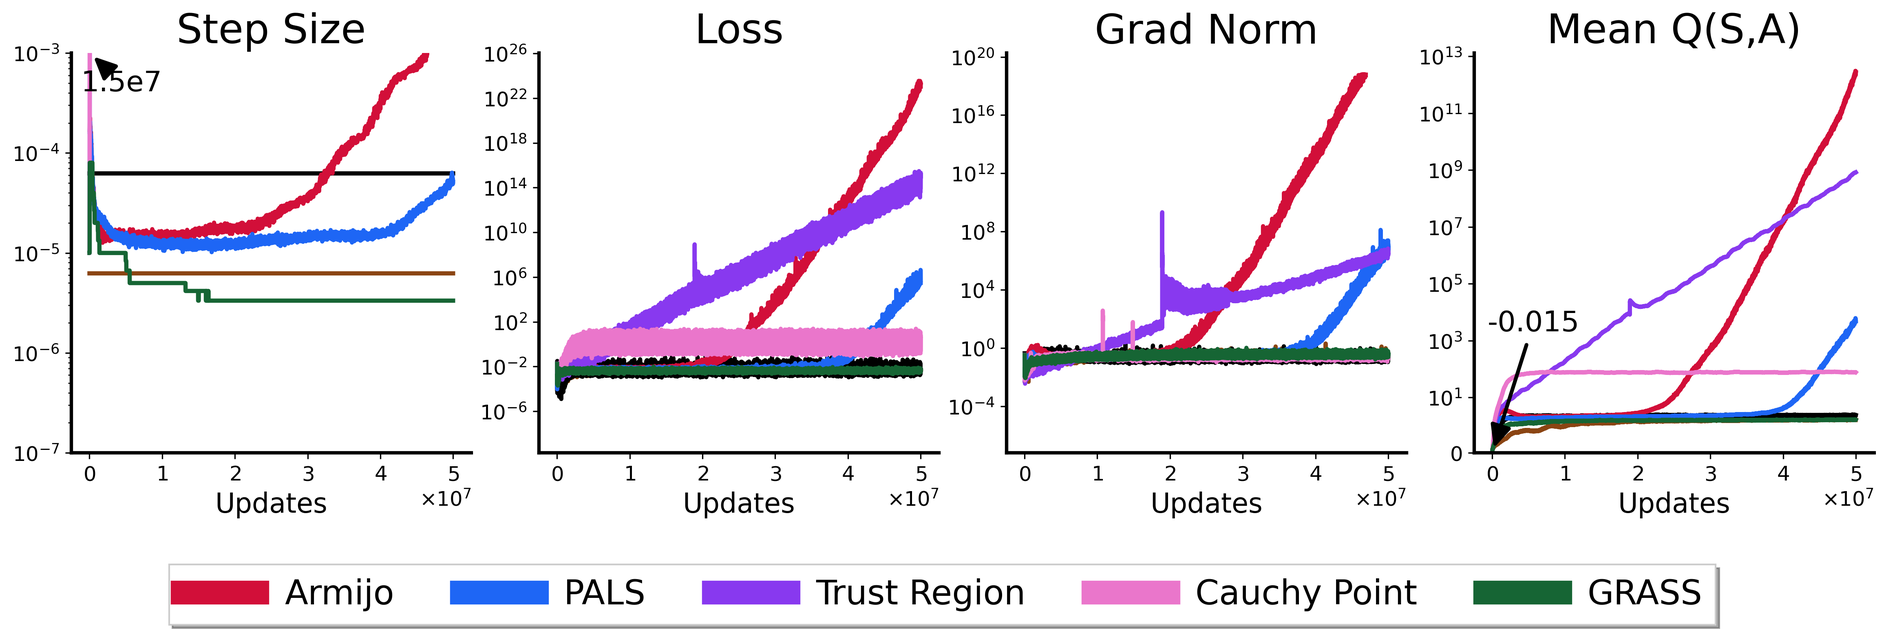
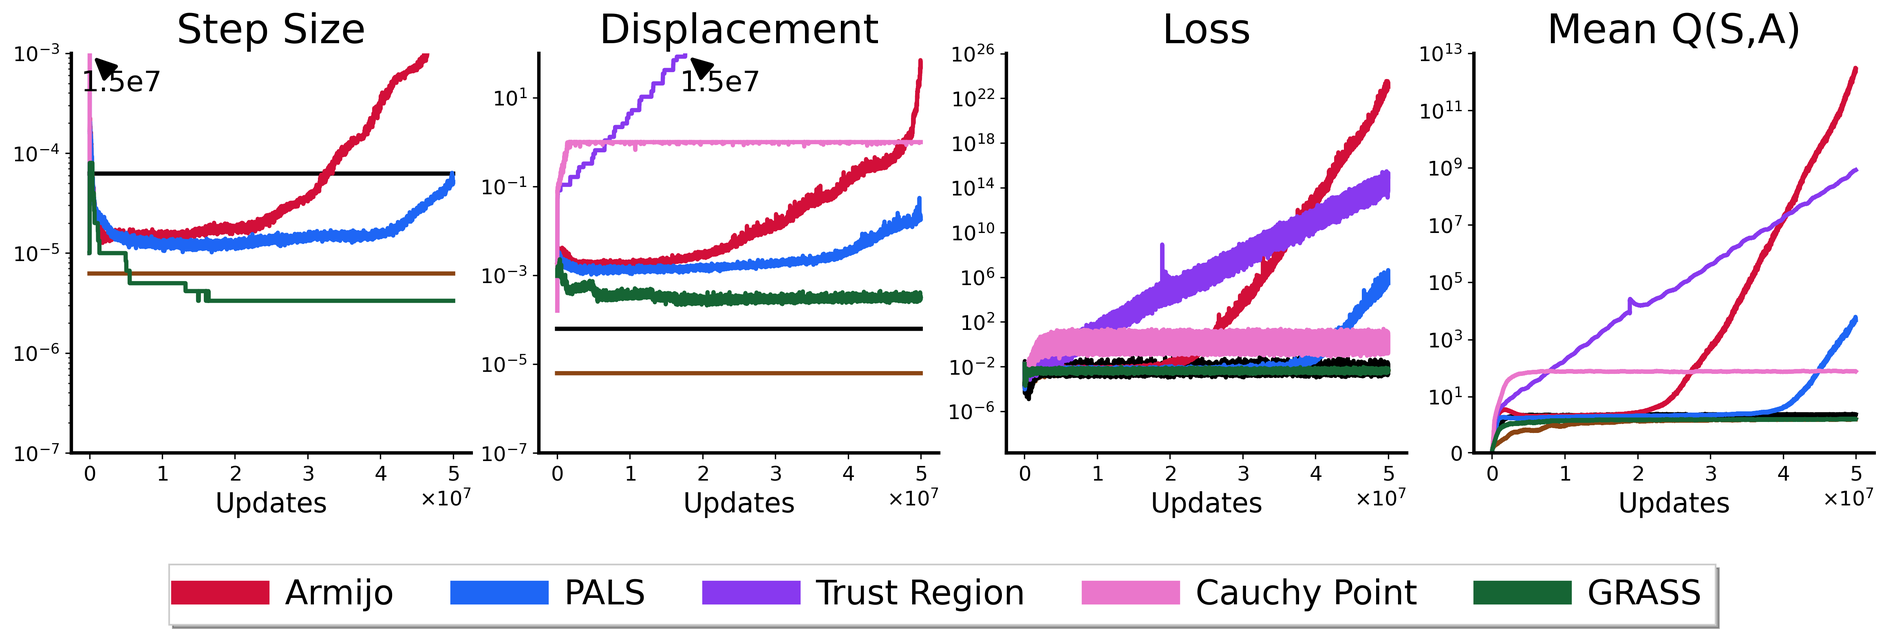
progress

diff --git a/thesis_template.tex b/thesis_template.tex
@@ -28,6 +28,8 @@
 \usepackage{wrapfig2}  %% <- for wrapfigure; wrapfig2 (not wrapfig) defers the
                        %%    figure to the next page when too little room is left
 \usepackage{float}     %% <- for [H] float placement (used by appendix figures)
+\usepackage{placeins}  %% <- for \FloatBarrier, used to keep algorithms and tables
+                       %%    inside the section that introduces them
 \usepackage{nicefrac}
 \usepackage{xcolor}
 \usepackage{amsmath}
@@ -188,12 +190,11 @@ The performance of deep reinforcement learning algorithms is notoriously sensiti
 \setcounter{page}{2}
 \renewcommand{\thepage}{\roman{page}} % Roman numerals for page counter
 
-\onehalfspacing
 \chapter*{Preface} \addcontentsline{toc}{chapter}{Preface}
 This thesis builds upon unpublished work done in collaboration with Samuel Neumann, Chen Fan, Martha White and Adam White. Generative AI tools such as Anthropic's Claude model were used to produce plots and edit text throughout this work. 
 
 \chapter*{Acknowledgements} \addcontentsline{toc}{chapter}{Acknowledgements}
-I am immensely grateful to my advisor, Professor Adam White, for his steadfast encouragement, insightful counsel, and grounding presence throughout the research process over the past two years. My gratitude goes to my primary collaborator, Samuel Neumann, for his extensive contributions to this project, and for being an inspiring and generous mentor as I navigated the trails of graduate research. Special thanks are also due to Professor Martha White and Dr. Chen Fan for lending their astute perspectives at many key stages of this work. I also wish to thank my labmates for their friendship and countless thought-provoking conversations. Lastly, thank you to Mom, Dad, and Julian for being there for me every step of the way.
+I am immensely grateful to my advisor, Professor Adam White, for his steadfast encouragement, insightful counsel, and grounding presence throughout the research process over the past two years. My gratitude also goes to my primary collaborator, Samuel Neumann, for his extensive contributions to this project, and for being an inspiring and generous mentor throughout trails of graduate research. Special thanks are also due to Professor Martha White and Dr. Chen Fan for lending their astute perspectives at many key stages of this work. I also wish to thank my labmates for their friendship and countless thought-provoking conversations. Lastly, thank you to Mom, Dad, and Julian for being there for me every step of the way.
 
 \tableofcontents
 \listoftables
@@ -316,7 +317,7 @@ In the tabular setting, if $\dynamics$ and $\rewardFunction$ are known, this obj
 \subsection{Monte Carlo Methods}
 The simplest prediction algorithm is Monte Carlo policy evaluation, which uses the full return $G_t$ observed for each state $S_t$ in a trajectory as an update target. By definition, $G_t$ is an unbiased estimate of $\vfn(S_t)$ or $\qfn(S_t, A_t)$. Algorithm~\ref{alg:mc} gives the procedure for the state-value case. One limitation of Monte Carlo evaluation is that it requires a full trajectory of experience to construct the target, delaying all updates to value estimates until the end of an episode. Another key disadvantage is that the variance of the update target is high, which can slow convergence.
 
-\begin{algorithm}[t]
+\begin{algorithm}[htbp]
 \caption{Monte Carlo Policy Evaluation}
 \label{alg:mc}
 \begin{algorithmic}[1]
@@ -332,6 +333,7 @@ The simplest prediction algorithm is Monte Carlo policy evaluation, which uses t
 \end{algorithmic}
 \end{algorithm}
 
+\FloatBarrier
 \subsection{Temporal Difference Methods} \label{subsec:td}
 Temporal Difference (TD) methods address both the disadvantages of Monte Carlo methods by using the current value estimates to construct the target in place of the full return, an approach referred to as bootstrapping. The TD target is derived by estimating the right side of Equations~\eqref{eq:bellman_v} or~\eqref{eq:bellman_q} for state or action-values, respectively, from sampled transitions with the current estimates $\vparam(S_t)$ or $\qparam(S_t, A_t)$ in place of the true value functions. For state values, this yields the TD(0) update
 \begin{equation}
@@ -340,7 +342,7 @@ Temporal Difference (TD) methods address both the disadvantages of Monte Carlo m
 \end{equation}
 where $R_{t+1} + \discount \vparam(S_{t+1})$ is the TD target and $\delta_t$ is the TD error. The full evaluation procedure is given in Algorithm~\ref{alg:td}. Note that performing SGD on the squared TD error with respect to $\phi$ does not yield the above update. This is because the TD target itself depends on the parameter vector $\vparams$ through the next-state value estimate $\vparam(S_{t+1})$, however this dependency is ignored when computing the gradient above. This approach is classified as a \textit{semi-gradient} method. All bootstrapping-based algorithms examined in this work are semi-gradient methods.
 
-\begin{algorithm}[t]
+\begin{algorithm}[htbp]
 \caption{TD(0) Policy Evaluation}
 \label{alg:td}
 \begin{algorithmic}[1]
@@ -358,6 +360,7 @@ where $R_{t+1} + \discount \vparam(S_{t+1})$ is the TD target and $\delta_t$ is 
 \end{algorithm}
 
 Bootstrapping yields a biased, yet lower variance estimate of the true value function. Moreover, on-policy TD(0) with linear function approximation is still guaranteed to converge to the TD fixed point (the best approximation representable by the features) under standard stochastic approximation conditions on the step size sequence. Using bootstrapped targets in place of the full return has the added benefit of allowing for immediate updates after each transition in the environment rather than waiting till the end of the episode. However, a key downside of TD(0) relative to Monte-Carlo is that it can take many episodes for rewards attained at the end of a trajectory to propagate back into the value estimates for the early states that led to it.
+\FloatBarrier
 \subsection{$\lambda$-Returns}
 The TD(0) update outlined above has a more general form. The agent may actually observe $N$ rewards before bootstrapping, which reduces the bias introduced by using $\vparam$ in place of $\vfn$ and speeds up credit assignment. This target is referred to as an $N$-step return,
 \begin{equation}
@@ -412,7 +415,7 @@ and replacing the value of the next action $\qparam(S_{t+1}, A_{t+1})$
 with the maximum over the action values in the next state $\max_{a} \qparam(S_{t+1}, a)$.
 This effectively interleaves individual steps of TD(0) policy evaluation for action-values with greedy policy improvement.
 
-\begin{algorithm}[t]
+\begin{algorithm}[htbp]
 \caption{Q-learning}
 \label{alg:qlearning}
 \begin{algorithmic}[1]
@@ -432,7 +435,8 @@ This effectively interleaves individual steps of TD(0) policy evaluation for act
 
 As the policy used for gathering data differs from the greedy policy being evaluated, Q-learning is classified as an \textit{off-policy} learning algorithm. It allows for the sustained exploration required for convergence in the tabular setting, while maintaining the ability to learn $\pi^*$ via greedy policy updates. A key benefit of off-policy learning is the ability to learn from experience generated by any policy, which proves especailly useful for its use with deep neural networks (DNNs) discussed in Section~\ref{subsec:dqn}. 
 
-\subsection{Actor-Critic Methods} 
+\FloatBarrier
+\subsection{Actor-Critic Methods}
 In contrast to value-based methods, policy gradient methods explicitly parameterize and learn a policy $\pi_\theta$ with parameters $\theta$. They perform policy improvement by directly estimating the gradient of the objective $\nabla_\theta J(\theta)$ and applying a gradient-based update to $\theta$. While $\nabla_\theta J(\theta)$ cannot be computed analytically due to its dependence on $\dynamics$, which recall we assume is unknown, the policy gradient theorem \tocite{sutton} yields a quantity proportional to the true gradient that can be sampled from trajectories of experience,
 \begin{equation}
     \nabla_\theta J(\theta) \doteq \E_\pi \left[ G_t \frac{\nabla_\theta \pi(A_t \mid S_t, \theta)}{\pi(A_t \mid S_t, \theta)} \right].
@@ -454,7 +458,7 @@ Some actor-critic methods use the advantage function \tocite{citation}, defined 
 \end{equation}
 The critic can be updated just as in prediction, using any of the targets for policy evaluation presented in Section~\ref{sec:prediction}. A simple actor-critic algorithm that learns $\vparam$ and uses Equation~\eqref{eq:pg_advantage} to estimate the policy gradient is given in Algorithm~\ref{alg:ac}. Note the TD error $\delta$ serves as an unbiased sample of the advantage $A_\pi(S_t, A_t)$.
 
-\begin{algorithm}[t]
+\begin{algorithm}[htbp]
 \caption{Actor-Critic with Advantage and TD(0) Target}
 \label{alg:ac}
 \begin{algorithmic}[1]
@@ -473,6 +477,7 @@ The critic can be updated just as in prediction, using any of the targets for po
 \end{algorithmic}
 \end{algorithm}
 
+\FloatBarrier
 \section{Deep Reinforcement Learning}
 Deep reinforcement learning refers to a particular instance of RL with non-linear FA where the approximators used to estimate $\vparam$, $\qparam$, and $\pi_\theta$ are DNNs. This setting has become the dominant paradigm in modern RL research due to the strong empirical performance of extremely low-bias, non-linear FAs when large amounts (typically on the order of millions) of samples are available for training \tocite{citation}. By removing the need for task-specific, human-designed features, deep RL has potential to autonomously solve new problems without the need for any human intervention. Despite their apparent complexity, the majority of deep RL methods are directly derived from the foundational algorithms introduced in the previous sections. In fact, any of those methods can utilize DNNs for nonlinear FA without modification. However, when naively combined with deep learning, RL algorithms typically suffer from significant instabilities resulting in poor performance \tocite{citation}. Many Deep RL algorithms can therefore be viewed as instances of standard RL methods paired with algorithmic tools to stabilize the learning process. This includes the two algorithms examined in this section: Deep Q-Learning and Proximal Policy Optimization.
 
@@ -486,7 +491,7 @@ The second issue is that neural networks are prone to instability when trained o
 
 These two mechanisms effectively reduce the Q-learning algorithm to solving a sequence of approximately i.i.d supervised regression problems, where the performance of DNNs is much more robust. The DQN algorithm is given in Algorithm~\ref{alg:dqn}. As deep RL methods are rarely trained with plain SGD, instead opting for adaptive methods like Adam \cite{kingma2015adam}, the pseudocode in this section abstracts away the choice of optimizer.
 
-\begin{algorithm}[t]
+\begin{algorithm}[htbp]
 \caption{Deep Q-Learning (DQN)}
 \label{alg:dqn}
 \begin{algorithmic}[1]
@@ -512,6 +517,7 @@ These two mechanisms effectively reduce the Q-learning algorithm to solving a se
 \end{algorithmic}
 \end{algorithm}
 
+\FloatBarrier
 \subsection{Proximal Policy Optimization}
 Proximal Policy Optimization (PPO) \tocite{PPO} is an actor-critic method designed for use with DNNs. The core algorithm is the same actor-critic method in Algorithm~\ref{alg:ac}, except using a $\lambda$-return in place of the TD(0) target in both the critic and actor updates. Analogously to how DQN makes Q-learning more robust, PPO introduces several changes to address two distinct sources of instability for actor-critic methods in deep RL.
 
@@ -525,7 +531,7 @@ where $\epsilon$ is a small constant hyperparameter. With positive advantage, th
 
 PPO employs many additional and less novel algorithmic tools for stabilizing training such as input normalization and gradient clipping, all of which are outlined in \tocite{37 implementation details}. Algorithm~\ref{alg:ppo} gives pseudocode containing only the core components discussed here.
 
-\begin{algorithm}[t]
+\begin{algorithm}[htbp]
 \caption{Proximal Policy Optimization (PPO)}
 \label{alg:ppo}
 \begin{algorithmic}[1]
@@ -551,6 +557,7 @@ PPO employs many additional and less novel algorithmic tools for stabilizing tra
 \end{algorithm}
 
 
+\FloatBarrier
 \section{Adaptive Step Size Methods} \label{sec:adaptive}
 We now turn to the two classes of adaptive step size methods examined in this work: line search and trust region. These two approaches are known as globalization strategies, as they were designed to ensure convergence to a stationary point from any starting point for deterministic non-convex optimization, a setting where classical optimizers such as Newton's method can diverge when applied with a fixed step size \todo{citation}. 
 
@@ -641,7 +648,7 @@ where $\mathcal{H}_k$ includes the smallest step size and the candidate step siz
 We call this the \textit{Parallel Argmin Line Search} (PALS), with pseudocode given in Algorithm~\ref{alg:argmin-armijo}.
 
 
-\begin{algorithm}[h]
+\begin{algorithm}[htbp]
     \caption{Parallel Argmin Line Search (PALS)}
     \label{alg:argmin-armijo}
     \begin{algorithmic}[1]
@@ -668,10 +675,11 @@ We call this the \textit{Parallel Argmin Line Search} (PALS), with pseudocode gi
 Note that the PALS algorithm also makes use of an exponential moving average (EMA) over the chosen step size. This improves robustness to noisy gradient estimates by preventing drastic changes in the learning rate. The same technique can also be applied to traditional backtracking line search.
 Pseudocode for the backtracking Armijo line search defined in Section~\ref{sec:adaptive} with EMA on the chosen step size is given as Algorithm~\ref{alg:armijo-ema} in Appendix~\ref{app_algo_pseudocode}.
 
+\FloatBarrier
 \section{Gain-Ratio Adaptive Step Size} \label{sec:grass}
 Next we introduce a new adaptive step size method based on trust region: Gain-Ratio Adaptive Step Size (GRASS). Rather than adapting the radius of a strict trust region around the current parameters, GRASS uses the same gain-ratio heuristic to simply increase or decrease the step size directly. While traditional trust region methods can be thought of as normalizing the given update vector to unit length and then applying the step size $\Delta_k$, or $\tau_k \Delta_k$ in the case of the Cauchy point, GRASS simply removes the normalization step, preserving the magnitude of the update. Additionally, to improve stability, GRASS computes the median of the gain ratio over a window of $K$ updates before updating the step size.
 
-\begin{algorithm}
+\begin{algorithm}[H]
 \caption{Gain-Ratio Adaptive Step Size (GRASS)}
 \label{alg:grass}
 \begin{algorithmic}[1]
@@ -765,6 +773,7 @@ We can also apply the aggregated gain-ratio when using the traditional second-or
 Lastly, unlike in classical trust region methods, when using the aggregated gain-ratio we do not fully reject steps when $\bar{\rho} < T_{\text{lo}}$, as the aggregated ratio is unknown until the end of each window.
 
 
+\FloatBarrier
 \section{Globalization Strategies with Momentum-Based Optimizers} \label{sec:momentum}
 As both line search and trust region rely on descent directions as input at each update, combining them with momentum-based optimizers that may produce ascent directions is non-trivial. For line search, the requirement $\inner{\nabla f_k(\xAt{k})}{\updateAt{k}} < 0$ disqualifies many popular optimizers, such as Adam \cite{kingma2015adam}. Letting $g_k = \nabla f_k(\xAt{k})$ and $\beta_1, \beta_2 \in (0, 1)$, Adam computes $u_k = -A^{-1}_k m_k$ where $A_k^2 = \mathrm{diag}(v_k)$ is a diagonal preconditioner formed from the second moment estimate $v_k = \beta_2 v_{k-1} + (1 - \beta_2) g_k^2$, and $m_k = \beta_1 m_{k-1} + (1 - \beta_1) g_k$ is a momentum term. We omit the bias correction terms for clarity. This momentum term causes difficulties since $\inner{\nabla f_k(\xAt{k})}{\updateAt{k}} = -\inner{\nabla f_k(\xAt{k})}{A_k^{-1} m_k}$ is not guaranteed to be negative. Momentum-based optimizers have been combined with line search methods by dropping the momentum term from the Armijo condition \cite{vaswani2020adaptive}. For stochastic gradient descent with Polyak or Nesterov momentum, the method searches for a step size $\stepSizeAt{k}$ satisfying
 \begin{equation}
@@ -810,6 +819,7 @@ The above follows the same derivation as Equation~\eqref{eq:cauchy_tau} using th
     \label{eq:tr_momentum_update}
 \end{equation}
 To the best of our knowledge, this issue has not been examined in RL nor with trust region methods.
+\FloatBarrier
 \section{Globalization Strategies with Sharpness Aware Minimization} \label{sec:sam}
 Gradient descent with a sufficiently large step size has been observed to enter a regime known as the edge of stability (EOS), where the sharpness of the loss landscape stabilizes near a threshold determined by the step size rather than continuing to grow \cite{cohen2021gradient}. Sharpness here is defined as the maximum eigenvalue of the Hessian $\lambda_{\max}(\nabla^2 f(x))$, or the maximum eigenvalue of the preconditioned Hessian $\lambda_{\max}(A^{-1}\nabla^2 f(x))$ when using optimizers that employ a diagonal preconditioner $A$ such as RMSProp and Adam \cite{cohen2024adaptive}. The maximum eigenvalue measures the curvature of the objective along the direction with the largest second directional derivative, so a large $\lambda_{\max}$ means the loss rises steeply for a small displacement in at least one direction, as shown in Figure~\ref{fig:precond_sharpness}a. The definition changes when applying the preconditioner $A^{-1}$ to the gradient, as with $A$ held fixed this is equivalent to gradient descent on the preconditioned objective $\tilde{f}(y) = f(A^{-1/2} y)$ in the transformed coordinates $y = A^{1/2} x$. The Hessian of $\tilde{f}$ is $A^{-1/2} \nabla^2 f(x) A^{-1/2}$, which has the same eigenvalues as $A^{-1} \nabla^2 f(x)$ \tocite{citation}, so the preconditioned sharpness corresponds to the sharpness of the objective the optimizer is effectively minimizing. Both the preconditioned sharpness and the high-curvature direction from which it is derived may not correspond to that of the original coordinates, as shown in Figure~\ref{fig:precond_sharpness}b. We approximate $\lambda_{\max}$ for the preconditioned Hessian using power iteration on $A^{-1/2} \nabla^2 f(x) A^{-1/2}$ \tocite{citation}.
 \begin{figure}[htbp]
@@ -841,7 +851,7 @@ where $\kappa > 0$ is the neighborhood radius. Directly solving the inner maximi
 $\nabla f_k^{\text{SAM}}(x)$ is therefore approximated with $\nabla f_k(x + \hat{\epsilon}(x))$, treating $\hat{\epsilon}(x)$ as a constant with respect to $x$ (i.e., its own gradient is stopped). This approximation is reasonable because the dropped term involves higher order derivatives of the loss, so it likely has little influence on the update direction for the small radii used in practice \tocite{SAM paper}.
 Pseudocode for a single SAM update is given in Algorithm~\ref{alg:sam}.
 
-\begin{algorithm}[h]
+\begin{algorithm}[htbp]
 \caption{Sharpness-Aware Minimization (SAM)}
 \label{alg:sam}
 \begin{algorithmic}[1]
@@ -857,7 +867,7 @@ Since line search and trust region methods depend on the objective only through 
 SAM has been used to achieve better generalization in offline RL \tocite{citation} and for mitigating plasticity loss in online RL \tocite{citation}, however, to the best of our knowledge, it has not been studied as a means of addressing failure modes of globalization methods in RL nor supervised learning.
 
 
-\chapter{Comparing Globalization Strategies to Step Sizes and Schedules} \label{sec: benchmarking}
+\chapter{Comparing Globalization Strategies to Fixed Step Sizes and Schedules} \label{sec: benchmarking}
 In this chapter, we examine the performance of the adaptive step size methods outlined above with DQN and PPO in RL environments with continuous and discrete action spaces of varying complexity. We found that all adaptive methods performed well in the classic control suite, demonstrating that globalization strategies can serve as an effective means of automatic step size selection in deep RL. In more complex environments, we found that GRASS significantly outperformed the other adaptive methods with DQN in Atari, with PALS ranking second by a substantial margin. However, both methods still fall short of the tuned baselines at either batch size, as globalization strategies appear to exhibit several distinct failure modes in this setting. Additionally, only GRASS and PALS consistently matched the performance of tuned baselines with PPO in Brax, demonstrating their robustness compared to standard line search and trust region methods. 
 
 \section{Adaptive Step Size with DQN} \label{sec:dqn_results}
@@ -895,8 +905,7 @@ Several implementation details differ from the classic control experiments above
 
 To calculate a method's aggregate performance across the suite, we first normalize the mean episodic returns of all runs within each environment using Winsorized Min-Max Normalization ($5^{\text{th}}$ and $95^{\text{th}}$ percentiles). For each method, we average these normalized scores across its runs per environment, and then average across all environments to yield the overall mean normalized performance. We use the $5^{\text{th}}$ and $95^{\text{th}}$ percentiles to prevent outliers from distorting the min-max normalization; this does not alter the set of runs used in our analysis. We report 95\% confidence intervals for this metric using a stratified bootstrap with $5{,}000$ resamples.
 
-We found the results in this setting to be much more nuanced than in classic control.
-Figure~\ref{fig:dqn_atari_norm_perf} shows mean normalized performance across the Atari-5. GRASS greatly outperformed all other adaptive step size methods, with PALS ranking second by a clear margin. However, all adaptive methods performed worse than Tuned-32 and Tuned-512. Nevertheless, GRASS attained this comparatively strong performance using substantially less compute than the line search methods, as the median gain-ratio requires only two loss evaluations per update rather than the $B+1$ evaluations used by PALS.
+We found the results in this setting to be much more nuanced than in classic control. Figure~\ref{fig:dqn_atari_norm_perf} shows mean normalized performance across the Atari-5. GRASS greatly outperformed all other adaptive step size methods, with PALS ranking second by a clear margin. However, all adaptive methods performed worse than Tuned-32 and Tuned-512. Nevertheless, GRASS attained this comparatively strong performance using substantially less compute than the line search methods, as the median gain-ratio requires only two loss evaluations per update rather than the $B+1$ evaluations used by PALS.
 
 \begin{figure}[htbp]
     \centering
@@ -905,7 +914,7 @@ Figure~\ref{fig:dqn_atari_norm_perf} shows mean normalized performance across th
     \label{fig:dqn_atari_norm_perf}
 \end{figure}
 
-Examining the learning curves in Figure~\ref{fig:dqn_atari_adam}, we found that performance in the Atari-5 was much less uniform across methods and environments than in the classic control domains. For example, in Battle Zone, all adaptive methods except GRASS exhibited either a total failure or a clear collapse in return after some period of learning progress. Figure~\ref{fig:dqn_atari_battle_zone} shows these collapses in performance were correlated with steadily increasing step size, loss, gradient norms, and Q-values.
+Examining the learning curves in Figure~\ref{fig:dqn_atari_adam}, we found that performance in the Atari-5 was much less uniform across methods and environments than in the classic control domains. For example, in Battle Zone, all adaptive methods except GRASS exhibited either a total failure or a clear collapse in return after some period of learning progress. Figure~\ref{fig:dqn_atari_battle_zone} shows these collapses in performance were correlated with steadily increasing step size, displacement in weight space produced by the update, loss, and Q-values. Starting from the same $\trustRegionInit$ of $1e-5$, we observe that displacement was larger for GRASS and the step size reached a threshold where the gain-ratio failed to match $T_{\text{lo}}$ very early in learning. $\stepSize$ for GRASS promptly shrank and stabilized within an order of magnitude of Tuned-512, while $\stepSize$ continued to grow for the other methods, even as the displacement far exceeded the largest value observed for grass. Step sizes for the line search methods were more stable initially, but then later in the run exhibited the same increasing behavior as the trust region methods. 
 
 \begin{figure}[htbp]
     \centering
@@ -919,11 +928,11 @@ This finding suggests globalization strategies may be prone to accelerating the 
 \begin{figure}[htbp]
     \centering
     \includegraphics[width=\textwidth]{figures/thesis/performance/2_dqn_atari/dqn_atari_battle_zone_metrics.png}
-    \caption[Return, step size, loss, gradient norm, and Q-values for DQN in Battle Zone.]{Return, step size, loss, gradient norm, and Q-values for DQN with Adam in Battle Zone. The collapse in return for all adaptive methods except GRASS was correlated with steadily increasing step size, loss, gradient norms, and Q-values.}
+    \caption[Metrics for DQN in Battle Zone.]{Return, displacement, step size, loss, and Q-values for DQN with Adam in Battle Zone. The collapse in return for all adaptive methods except GRASS was correlated with steadily increasing step size, displacement, loss, and Q-values.}
     \label{fig:dqn_atari_battle_zone}
 \end{figure}
 
-GRASS may be less afflicted by the feedback loop described above because its chosen step size stabilizes much earlier in the run as compared to the other adaptive methods. Because $\stepSize$ scales a unit vector rather than the raw update with standard trust region methods, the displacement per update is $\stepSize$ rather than $\stepSize \norm{\updateAt{k}}$. Starting from the same $\trustRegionInit$ of $1e-5$, we observed an initial growth period for both GRASS and the trust-region methods. However, for GRASS the median gain-ratio quickly fell below $T_{\text{hi}}$ and the step size then shrank accordingly. Since the effective displacement is smaller by a factor of $\norm{\updateAt{k}}$ for trust region methods, their step size continued to grow. Similarly, unlike GRASS, the examined line search methods adjust the step size each update and always consider the maximum step of $1$, making them more prone to the same instability.
+It is unclear why GRASS did not exhibit the same instabilities observed for the other adaptive methods. Note that for the standard trust region and Cauchy methods, $\stepSize$ scales a unit vector rather than the raw update, so the displacement per update is $\stepSize$ rather than $\stepSize \norm{\updateAt{k}}$. This explains why the displacement was larger for GRASS initially any why the other methods grew $\stepSize$ to a larger value, however the displacement for these methods quickly exceeded the largest value observed for GRASS without triggering a decrease in $\stepSize$. This suggests whatever mechanism triggered the massive growth in $\stepSize$ may have originated in this early period in learning when the trust region and Cauchy point methods require more updates to reach the same displacement as GRASS. Additionally, unlike GRASS, the examined line search methods adjust the step size each update and always consider the maximum step of $1$, potentially making them more prone to all the instabilities discussed in this section. 
 
 Unlike in Battle Zone, returning to Figure~\ref{fig:dqn_atari_adam}, we observed that for Qbert, step sizes were roughly $10^2$ to $10^4$ times smaller than the tuned baselines, and roughly 10 to 100 times smaller than the chosen step sizes in the other Atari environments. All adaptive methods performed poorly in this environment, and we found that performance was correlated with sharpness in the loss, with GRASS and both line search methods reaching preconditioned sharpness roughly 1000 times greater than the baselines.
 
@@ -1101,7 +1110,7 @@ Another limitation of this work is that popular deep RL benchmarks fail to demon
 
 \renewcommand{\bibname}{References}
 \bibliography{ref}
-\bibliographystyle{plainnat}
+\bibliographystyle{IEEEtran}
 
 \appendix
 \chapter{Pseudocode for Adaptive Step Size Methods} \label{app_algo_pseudocode}
@@ -1150,6 +1159,7 @@ The Acrobot, CartPole, and MountainCar environments used in this work are implem
 \end{itemize}
 
 
+\FloatBarrier
 \section{Arcade Learning Environment Configuration} \label{app_ale_params}
 All Atari-5 experiments use \texttt{ale\_py}'s vectorized ALE interface, \texttt{AtariVectorEnv}, with a single environment instance (\texttt{num\_envs = 1}). Table~\ref{tab:ale_params} lists every configurable parameter of \texttt{AtariVectorEnv} and the value used in this work.
 
@@ -1258,6 +1268,7 @@ Adam $\epsilon$ & $0.00001$ & $0.00001$ \\
 \label{tab:ppo_hypers}
 \end{table}
 
+\FloatBarrier
 \section{Line Search and Trust Region Hyperparameters} \label{app_globalization_hypers}
 Tables~\ref{tab:ls_hypers} and~\ref{tab:tr_hypers} report hyperparameters for the line search and trust-region methods, respectively. None of these values were tuned.
 
@@ -1303,6 +1314,7 @@ Gain-ratio window $K$ (updates) & 37 & 500 & 5 & 5 \\
 \label{tab:tr_hypers}
 \end{table}
 
+\FloatBarrier
 \section{Grid Search Ranges For Cross Environment Tuning} \label{app_tuning_ranges}
 For each environment suite, algorithm, and optimizer, we perform a grid search over the range of candidate step sizes given in Table~\ref{tab:tuning_ranges} to obtain the \textit{Tuned N} baselines described in Section~\ref{sec:dqn_results}, where $N$ denotes the batch size used. Table~\ref{tab:tuned_n} reports the selected fixed step size for each environment suite, algorithm, and optimizer. 
 
@@ -1346,6 +1358,7 @@ Brax & PPO & Adam & false & 64, 1024 & $3\mathrm{e}{-4}$ \\
 \label{tab:tuned_n}
 \end{table}
 
+\FloatBarrier
 We tune the SAM perturbation radius $\kappa$ using the range given in Table~\ref{tab:sam_tuning_range}. The search is repeated for PALS, GRASS, and both tuned fixed step size baselines, though the selected value of $0.05$, which matches the default recommended by \tocite{SAM paper}, was the same for all methods.
 
 \begin{table}[htbp]
